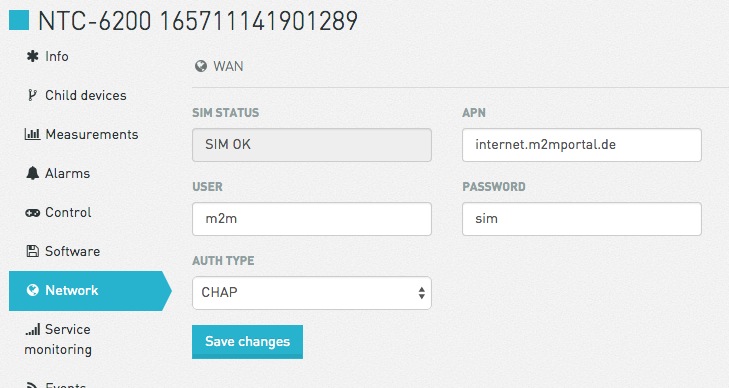
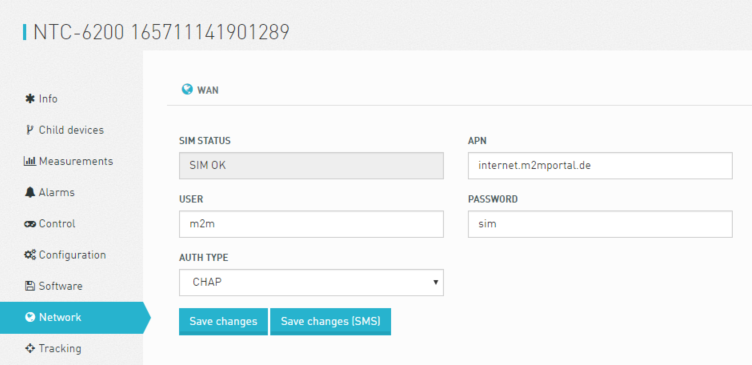
netcomm: release 3.1.1

diff --git a/src/documents/guides/devices/netcommwireless.html.md b/src/documents/guides/devices/netcommwireless.html.md
@@ -88,7 +88,11 @@ After clicking the "accept" button, navigate to "All devices", the router should
 
 You can view and configure the essential mobile network ("WAN") and local area network ("LAN") parameters in the "Network" tab as shown in the screenshot below.
 
-The mobile network ("WAN") parameters shown in the user interface correspond to the first profile stored in the router. These parameters can be remotely configured via SMS or [Device Shell](#shell). For SMS configuring, the router needs to be configured to accept SMS commands. Consult the router's manual on the relevant parameters for SMS configuration, or use the router's web user interface. You also need to have an SMS gateway configured with your account. Contact <support@cumulocity.com> for setting up an SMS gateway. For more information on Device Shell, consult the  [user's guide](https://cumulocity.com/guides/users-guide/device-management/#shell).
+The mobile network ("WAN") parameters shown in the user interface correspond to the first profile stored in the router. These parameters can be remotely configured directly or via SMS.
+
+For SMS configuring, the router needs to be configured to accept SMS commands. Consult the router's manual on the relevant parameters for SMS configuration, or use the router's web user interface. You also need to have an SMS gateway configured with your account. Contact <support@cumulocity.com> for setting up an SMS gateway. For more information on Device Shell, consult the  [user's guide](https://cumulocity.com/guides/users-guide/device-management/#shell).
+
+> Note configuring WAN parameters via both IP and SMS mode requires Cumulocity 7.26. When you configure a wrong APN setting, the device will lose mobile network connection and can only be managed by limited SMS functionality.
 
 ![WAN parameters](/guides/devices/netcomm/wan.png)
 
@@ -149,28 +153,28 @@ Consult the documentation of your router for more information about its specific
 To regularly poll the input voltage of a GPIO pin and send it to Cumulocity, set "[GPIO analog measurements](#configure)" to a non-zero value. Alternatively, use Device Shell:
 
 	set service.cumulocity.plugin.ntc6200.gpio.interval=<interval>
+	set service.cumulocity.gpio.<port>.notify=measurement
 
-Navigate to the "Measurements" tab to view the visualized result, or create your own dashboard.
+&lt;port&gt; is the numbering of the GPIO pin. For the NTC-6200, replace &lt;port&gt; with 1, 2 or 3. The Visualized result is then visible in "Measurements".
 
 ### Digital input
 
-You can create events and alarms from digital inputs. These can be configured using the router user interface or through Device Shell. The format is
+You can raise alarms from digital inputs. These can be configured using the router user interface or through Device Shell. The format is
 
-	set service.cumulocity.gpio.<port>.notify=<off | event | alarm | alarm-inverted>
+	set service.cumulocity.gpio.<port>.notify=alarm
 	set service.cumulocity.gpio.<port>.debounce.interval=<SECONDS>
 	set service.cumulocity.gpio.<port>.text=<ALARM_TEXT>
 	set service.cumulocity.gpio.<port>.severity=<severity>
 
-For the NTC-6200, replace "&lt;port&gt;" with 1, 2 or 3. The values of the notify parameter are:
+Possible values for the notify parameter are:
 
-* off: The digital input is ignored.
-* event: The value of the input is logged as event.
-* alarm: If the input is set to "high", an alarm is created.
-* alarm-inverted: If the input is set to "low", an alarm is created.
+* off: The pin is disabled for any notification.
+* alarm: An alarm is raised when the pin reading is "high".
+* measurement: Analog reading of voltage will be send as measurement.
 
-The debounce interval reduces electrical noise from the GPIO inputs: The shorter the interval, the noisier the value but the faster the reaction to signal changes. The default debounce interval is zero (no delay).
+The debounce interval reduces electrical noise from the GPIO inputs: The shorter the interval, the noisier the value but the faster the reaction to signal changes. The default debounce interval is 10 mins.
 
-You can override the default alarm text by setting the "text" property. By default, this value is empty and "Digital input gpio<N>" is used as text, where <N> is the numbering of a GPIO pin.
+You can override the default alarm text by setting the "text" property. By default, this value is empty and "gpio<N> is active" is used as text, where <N> is the numbering of a GPIO pin.
 
 Valid alarm severities are:
 
@@ -183,11 +187,17 @@ The inputs are checked every second for changes.
 
 ### Digital output
 
-Digital outputs can be controlled using the "Relay array" widget in the "[Control](/guides/users-guide/device-management#operation-monitoring)" tab, see below in the screenshot. The numbering of the GPIO pins are listed in the same order as they are listed on the router. For the NTC-6200 model, three GPIO pins can be set.
+Digital outputs can be controlled using the "Relay array" plugin, see below in the screenshot. The numbering of the GPIO pins are the same as listed on the router. For the NTC-6200 model, three GPIO pins can be set.
 
-## <a name="rdb"></a>Retrieving configuration
+![Relay Array](/guides/devices/netcomm/relayarray.png)
 
-You can retrieve, modify and save user configuration data. To do this, navigate to the "[Configuration](/guides/users-guide/device-management#operation-monitoring)" tab of the router, click on the "Reload" button in the "CONFIGURATION" widget to request configuration data. It will take a few seconds to download. After the configuration data has arrived, you will see a list of parameters and their corresponding values. You can use your web browser's text search functionality to locate specific configuration.
+## <a name="rdb"></a>Configuration Management
+
+You can retrieve, modify and save user configuration data. To do this, navigate to the "[Configuration](/guides/users-guide/device-management#operation-monitoring)" tab of the router, click on the "Reload" button in the "CONFIGURATION" widget to request configuration data. It will take a few seconds to download. After the configuration data has arrived, you will see a list of parameters and their corresponding values. You can then make changes to the configuration and save them back to the device.
+
+You can also request a configuration snapshot from the device and later apply the configuration snapshot to other devices.
+
+Starting from agent version 3.1.1 and Cumulocity version 7.26 there is also RDB snapshot support, which is a super-set of the configurations. This is mainly for troubleshooting purpose.
 
 ![RDB setup](/guides/devices/netcomm/rdb.png)
 
@@ -224,10 +234,20 @@ The router reports certain system events as notifications, which can be forwarde
 
 ## <a name="modbus"></a>Cloud Fieldbus
 
-You can connect Modbus/TCP devices using the router's LAN port and manage them remotely from Cumulocity. To do so, you need to
+You can connect Modbus-TCP and Modbus-RTU slaves to the router via LAN and serial port, respectively, and manage them remotely in Cumulocity. To do so, you need to
 
-* Establish basic LAN connectivity. Use the "[Network](#network)" tab as described above and the corresponding configuration mechanism on the Modbus device to enable IP communication between the router and the device.
-* Configure the Modbus TCP port in the Cumulocity menu on NetComm device's web UI, see "[Configuring the router](#configure)".
+For Modbus-TCP setup:
+
+* Establish LAN connectivity. Use the "[Network](#network)" tab as described above and the corresponding configuration mechanism on the Modbus device to enable IP communication between the router and the your Modbus-TCP slaves.
+* Configure the Modbus-TCP port in the Cumulocity menu on NetComm device's web UI, see "[Configuring the router](#configure)".
+
+For Modbus-RTU setup:
+
+* Connect the router and your Modbus-RTU slaves via a RS-485 cable.
+* Configure the Modbus-RTU port in the Cumulocity menu on NetComm device's web UI, see "[Configuring the router](#configure)".
+
+Then:
+
 * Subscribe your account to the Cloud Fieldbus app by contacting <support@cumulocity.com>.
 * Configure Modbus communication as described in the [Cloud Fieldbus user's guide](/guides/users-guide/cloud-fieldbus).
 * Enable or disable write permission by toggle the Modbus read-only property on the device, see "[Configuring the router](#configure)".
@@ -236,8 +256,8 @@ You can connect Modbus/TCP devices using the router's LAN port and manage them r
 
 You can download and view logs from the device. Log files can be quite big, you can set filtering criteria to get only what is interesting for you.
 
-![Log vierer](/guides/devices/netcomm/logs.png)
-
-From right you can set date range (date from and date to), you can select log file. Next you can search the text, and only matching lines are transmitted from the device. You can also limit matched lines.o
+From right you can set date range (date from and date to), you can select log file. Next you can search the text, and only matching lines are retrieved from the device. You can also limit matched lines.
 
 Received logs are visible in a list below. You can click on it to show log file content at the bottom of the page. Last requested log is opened automatically.
+
+![Log vierer](/guides/devices/netcomm/logs.png)

diff --git a/src/documents/guides/devices/netcomm-release.html.md b/src/documents/guides/devices/netcomm-release.html.md
@@ -3,7 +3,7 @@ title: NTC-6200 Release Notes
 layout: default
 ---
 
-## Release notes for NetComm Agent 3.0
+## Release notes for NetComm Agent 3.1
 
 This document describes the Cumulocity agent package for the [NetComm Wireless NTC-6200](http://www.netcommwireless.com/product/m2m/ntc-6200) router.
 
@@ -24,7 +24,7 @@ The agent supports the following functionality:
 * Managing router configuration snapshots.
 * Remotely executing commands via device shell interface.
 * Sending event notifications as alarms.
-* Modbus/TCP support to remotely manage Modbus devices from Cumulocity.
+* Modbus-RTU and Modbus-TCP support for remotely managing Modbus devices from Cumulocity.
 * Lua plug-in API for rapid development of IoT applications.
 * Configuring and displaying of agent settings on the router's web user interface.
 * Get and put device configuration.
@@ -46,7 +46,7 @@ The agent was tested on an NTC-6200 device with firmware version 2.0.24.3. For r
 
 ## Installing the agent
 
-* Download the software: http://resources.cumulocity.com/ntc/smartrest-agent_3.0.0_arm.ipk.
+* Download the software: http://resources.cumulocity.com/ntc/smartrest-agent_3.1.1_arm.ipk.
 * Log in to the web user interface of the NTC-6200.
 * Navigate to the "System" menu. Click on "System configuration", "Choose a file" and select the downloaded software. Click "Upload" to upload the software to the router.
 * Click the "Install" button for the uploaded software which you want to install.
@@ -135,3 +135,13 @@ For information on using the agent, please visit the [NetComm Agent User's Guide
 * [MTM-11785](https://cumulocity.atlassian.net/browse/MTM-11785): report GPS fix on boot.
 * [MTM-11830](https://cumulocity.atlassian.net/browse/MTM-11830): Add support for serial number in registration.
 * [MTM-12283](https://cumulocity.atlassian.net/browse/MTM-12283): disallow removing agent from Cumulocity Software Management.
+
+### 3.1.1
+[Download link](http://resources.cumulocity.com/ntc/smartrest-agent_3.1.1_arm.ipk). Changes:
+
+* *fix*: fragile start-up process when send fails after register templates.
+* *fix*: Fixed one-hour off issue because of DST in logviewer.
+* [MTM-11104](https://cumulocity.atlassian.net/browse/MTM-11104): raise alarm when modbus slave reading fails.
+* *fix*: in logview get *last* N lines instead of *first* N lines in the given timeframe.
+* [MTM-9815](https://cumulocity.atlassian.net/browse/MTM-9815): use decimal instead of hex for LAC for OpenCellID to work.
+* [MTM-12039](https://cumulocity.atlassian.net/browse/MTM-12039): add RDB dump support.
